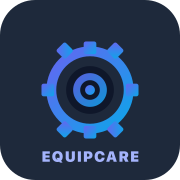
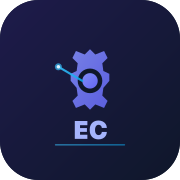
release: system ready for production use
- Fix /acesso page: proper React component with 'use client', valid onClick handlers
- Regenerate all PWA icons (72→512px) with new EC logo design
- Update manifest.json: correct name, start_url=/dashboard, shortcuts for inventory/orders
- Update service worker to v3 with proper cache management
- App ready for install as PWA on iOS, Android and Desktop

diff --git a/app/acesso/page.js b/app/acesso/page.js
@@ -1,130 +1,96 @@
-export const metadata = {
-  title: 'EquipCare Pro — Acesso ao Sistema',
-  description: 'Como acessar e instalar o EquipCare Pro como aplicativo',
-}
+'use client'
 
 export default function AcessoPage() {
-  const url = 'https://equipcare-pro.vercel.app'
+  function copyUrl() {
+    navigator.clipboard.writeText('https://equipcare-pro.vercel.app').then(() => {
+      const btn = document.getElementById('copybtn')
+      if (btn) { btn.textContent = '✅ Copiado!'; btn.style.background = '#10b981' }
+      setTimeout(() => {
+        if (btn) { btn.textContent = '📋 Copiar Link'; btn.style.background = '#6366f1' }
+      }, 2000)
+    })
+  }
 
   return (
     <>
       <style>{`
         *{box-sizing:border-box;margin:0;padding:0}
-        body{
-          font-family:system-ui,-apple-system,sans-serif;
-          background:linear-gradient(135deg,#0f172a 0%,#1e1b4b 50%,#0f172a 100%);
-          min-height:100vh;
-        }
-        .page{
-          min-height:100vh;display:flex;align-items:center;
-          justify-content:center;padding:24px;
-          background:linear-gradient(135deg,#0f172a 0%,#1e1b4b 50%,#0f172a 100%);
-        }
-        .card{
-          background:#1e293b;border:1px solid #334155;
-          border-radius:24px;padding:40px;max-width:500px;
-          width:100%;box-shadow:0 25px 60px rgba(0,0,0,.6);color:#f1f5f9;
-        }
+        body{font-family:system-ui,-apple-system,sans-serif}
+        .pg{min-height:100vh;display:flex;align-items:center;justify-content:center;padding:24px;
+          background:linear-gradient(135deg,#0f172a 0%,#1e1b4b 50%,#0f172a 100%)}
+        .card{background:#1e293b;border:1px solid #334155;border-radius:24px;padding:40px;
+          max-width:500px;width:100%;box-shadow:0 25px 60px rgba(0,0,0,.6);color:#f1f5f9}
         .header{text-align:center;margin-bottom:28px}
         .logo{font-size:56px;margin-bottom:10px}
         h1{font-size:26px;font-weight:800;color:#a5b4fc;margin-bottom:4px}
         .sub{color:#64748b;font-size:13px;line-height:1.5}
-        .badge-online{
-          display:inline-flex;align-items:center;gap:6px;
-          background:rgba(16,185,129,.15);color:#10b981;
-          padding:5px 14px;border-radius:999px;font-size:12px;
-          font-weight:700;margin-top:12px;
-        }
-        .url-box{
-          background:#0f172a;border:1px solid #334155;border-radius:14px;
-          padding:18px 20px;text-align:center;margin-bottom:24px;
-        }
-        .url-label{font-size:11px;font-weight:700;color:#475569;
-          text-transform:uppercase;letter-spacing:1px;margin-bottom:6px}
-        .url-text{font-size:17px;font-weight:800;color:#a5b4fc;
-          word-break:break-all;margin-bottom:14px}
+        .online{display:inline-flex;align-items:center;gap:6px;background:rgba(16,185,129,.15);
+          color:#10b981;padding:5px 14px;border-radius:999px;font-size:12px;font-weight:700;margin-top:12px}
+        .url-box{background:#0f172a;border:1px solid #334155;border-radius:14px;
+          padding:18px 20px;text-align:center;margin-bottom:24px}
+        .url-label{font-size:11px;font-weight:700;color:#475569;text-transform:uppercase;
+          letter-spacing:1px;margin-bottom:6px}
+        .url-text{font-size:17px;font-weight:800;color:#a5b4fc;margin-bottom:14px}
         .btns{display:flex;gap:8px;justify-content:center;flex-wrap:wrap}
-        .btn-copy{
-          background:#6366f1;color:#fff;border:none;border-radius:8px;
-          padding:10px 22px;font-size:13px;font-weight:700;cursor:pointer;
-        }
-        .btn-open{
-          background:transparent;color:#a5b4fc;border:1px solid #4f46e5;
-          border-radius:8px;padding:10px 18px;font-size:13px;font-weight:600;
-          cursor:pointer;text-decoration:none;display:inline-block;
-        }
-        .qr-section{text-align:center;margin-bottom:24px}
+        .btn-copy{background:#6366f1;color:#fff;border:none;border-radius:8px;
+          padding:10px 22px;font-size:13px;font-weight:700;cursor:pointer}
+        .btn-open{background:transparent;color:#a5b4fc;border:1px solid #4f46e5;border-radius:8px;
+          padding:10px 18px;font-size:13px;font-weight:600;cursor:pointer;text-decoration:none;display:inline-block}
+        .qr{text-align:center;margin-bottom:24px}
         .qr-label{font-size:12px;color:#64748b;margin-bottom:10px;font-weight:600}
         .qr-img{border-radius:14px;background:#fff;padding:14px;display:inline-block}
         hr{border:none;border-top:1px solid #334155;margin:20px 0}
-        .section-title{font-size:11px;font-weight:700;color:#475569;
-          text-transform:uppercase;letter-spacing:1px;margin-bottom:14px}
-        .step{
-          display:flex;align-items:flex-start;gap:12px;
-          margin-bottom:10px;background:#0f172a;border-radius:10px;padding:14px;
-        }
-        .step-icon{font-size:22px;flex-shrink:0;margin-top:2px}
-        .step-text{font-size:13px;color:#94a3b8;line-height:1.55}
-        .step-text strong{color:#f1f5f9}
-        .info-box{
-          background:rgba(99,102,241,.08);border:1px solid rgba(99,102,241,.25);
-          border-radius:12px;padding:16px;margin-bottom:16px;
-        }
-        .info-title{font-size:12px;font-weight:700;color:#a5b4fc;margin-bottom:8px}
-        .info-text{font-size:13px;color:#94a3b8;line-height:1.6}
-        .info-text strong{color:#f1f5f9}
-        .info-box-green{
-          background:rgba(16,185,129,.06);border:1px solid rgba(16,185,129,.2);
-          border-radius:12px;padding:16px;margin-bottom:16px;
-        }
-        .info-title-green{font-size:12px;font-weight:700;color:#10b981;margin-bottom:8px}
+        .sec{font-size:11px;font-weight:700;color:#475569;text-transform:uppercase;
+          letter-spacing:1px;margin-bottom:14px}
+        .step{display:flex;align-items:flex-start;gap:12px;margin-bottom:10px;
+          background:#0f172a;border-radius:10px;padding:14px}
+        .step-i{font-size:22px;flex-shrink:0;margin-top:2px}
+        .step-t{font-size:13px;color:#94a3b8;line-height:1.55}
+        .step-t strong{color:#f1f5f9}
+        .info{background:rgba(99,102,241,.08);border:1px solid rgba(99,102,241,.25);
+          border-radius:12px;padding:16px;margin-bottom:14px}
+        .info-t{font-size:12px;font-weight:700;color:#a5b4fc;margin-bottom:8px}
+        .info-g{background:rgba(16,185,129,.06);border-color:rgba(16,185,129,.2)}
+        .info-gt{color:#10b981}
+        .info-x{font-size:13px;color:#94a3b8;line-height:1.6}
+        .info-x strong{color:#f1f5f9}
         .footer{text-align:center;color:#475569;font-size:11px;margin-top:8px}
-        .btn-print{
-          background:none;border:1px solid #334155;border-radius:8px;
-          padding:8px 18px;color:#64748b;cursor:pointer;font-size:12px;margin-top:12px;
-        }
+        .btn-print{background:none;border:1px solid #334155;border-radius:8px;
+          padding:8px 18px;color:#64748b;cursor:pointer;font-size:12px;margin-top:12px}
         @media(max-width:480px){.card{padding:28px 20px}.url-text{font-size:14px}}
         @media print{
-          .page{background:#fff}
-          .card{box-shadow:none;border:2px solid #e2e8f0;background:#fff;color:#1e293b;max-width:100%}
-          h1,.url-text,.section-title,.info-title,.info-title-green{color:#1e293b}
-          .sub,.step-text,.info-text,.footer,.url-label,.qr-label{color:#475569}
-          .step-text strong,.info-text strong{color:#1e293b}
-          .url-box,.step,.info-box,.info-box-green{background:#f8fafc;border-color:#e2e8f0}
-          .badge-online,.btn-copy,.btn-open,.btn-print{display:none}
-          .qr-img{box-shadow:none}
+          .pg{background:#fff}.card{box-shadow:none;border:2px solid #e2e8f0;background:#fff;color:#1e293b;max-width:100%}
+          h1,.url-text,.sec,.info-t{color:#1e293b}.sub,.step-t,.info-x,.footer,.url-label,.qr-label{color:#475569}
+          .step-t strong,.info-x strong{color:#1e293b}.url-box,.step,.info,.info-g{background:#f8fafc;border-color:#e2e8f0}
+          .online,.btn-copy,.btn-open,.btn-print{display:none}.qr-img{box-shadow:none}
         }
       `}</style>
 
-      <div className="page">
+      <div className="pg">
         <div className="card">
           <div className="header">
             <div className="logo">⚙</div>
             <h1>EquipCare Pro</h1>
             <p className="sub">Sistema de Gestão de Máquinas e Equipamentos<br/>Laser&amp;Co</p>
-            <div className="badge-online">● Sistema Online</div>
+            <div className="online">● Sistema Online</div>
           </div>
 
           <div className="url-box">
             <div className="url-label">🔗 Endereço do Sistema</div>
             <div className="url-text">equipcare-pro.vercel.app</div>
             <div className="btns">
-              <button className="btn-copy" onclick="navigator.clipboard.writeText('https://equipcare-pro.vercel.app').then(()=>{this.textContent='✅ Copiado!';this.style.background='#10b981';setTimeout(()=>{this.textContent='📋 Copiar Link';this.style.background='#6366f1'},2000)})">
-                📋 Copiar Link
-              </button>
-              <a className="btn-open" href="https://equipcare-pro.vercel.app" target="_blank">🚀 Abrir Sistema</a>
+              <button id="copybtn" className="btn-copy" onClick={copyUrl}>📋 Copiar Link</button>
+              <a className="btn-open" href="https://equipcare-pro.vercel.app" target="_blank" rel="noreferrer">🚀 Abrir Sistema</a>
             </div>
           </div>
 
-          <div className="qr-section">
+          <div className="qr">
             <div className="qr-label">📱 Escaneie para acessar no celular</div>
             <div className="qr-img">
               {/* eslint-disable-next-line @next/next/no-img-element */}
               <img
-                src="https://api.qrserver.com/v1/create-qr-code/?data=https://equipcare-pro.vercel.app&size=180x180&color=1e293b&bgcolor=ffffff&qzone=1&margin=0&format=png"
-                alt="QR Code EquipCare Pro"
-                width="180"
-                height="180"
+                src="https://api.qrserver.com/v1/create-qr-code/?data=https://equipcare-pro.vercel.app&size=180x180&color=1e293b&bgcolor=ffffff&qzone=1&margin=0"
+                alt="QR Code EquipCare Pro" width="180" height="180"
               />
             </div>
           </div>
@@ -132,27 +98,24 @@ export default function AcessoPage() {
           <hr/>
 
           <div>
-            <div className="section-title">📲 Como instalar como App no celular ou PC</div>
-
+            <div className="sec">📲 Como instalar como App</div>
             <div className="step">
-              <div className="step-icon">🍎</div>
-              <div className="step-text">
+              <div className="step-i">🍎</div>
+              <div className="step-t">
                 <strong>iPhone / iPad</strong><br/>
                 Abra no <strong>Safari</strong> → toque em Compartilhar <strong>↑</strong> → <strong>&quot;Adicionar à Tela de Início&quot;</strong> → Adicionar
               </div>
             </div>
-
             <div className="step">
-              <div className="step-icon">🤖</div>
-              <div className="step-text">
+              <div className="step-i">🤖</div>
+              <div className="step-t">
                 <strong>Android</strong><br/>
                 Abra no <strong>Chrome</strong> → toque em <strong>⋮</strong> → <strong>&quot;Adicionar à tela inicial&quot;</strong> → Adicionar
               </div>
             </div>
-
             <div className="step">
-              <div className="step-icon">💻</div>
-              <div className="step-text">
+              <div className="step-i">💻</div>
+              <div className="step-t">
                 <strong>Computador (Chrome ou Edge)</strong><br/>
                 Abra o sistema → clique no ícone <strong>⊕</strong> na barra de endereço → <strong>Instalar</strong>
               </div>
@@ -161,19 +124,18 @@ export default function AcessoPage() {
 
           <hr/>
 
-          <div className="info-box">
-            <div className="info-title">✉ Primeiro Acesso</div>
-            <div className="info-text">
+          <div className="info">
+            <div className="info-t">✉ Primeiro Acesso</div>
+            <div className="info-x">
               O administrador envia um <strong>convite por e-mail</strong> pelo sistema.<br/>
-              Você receberá um e-mail de <strong>rafael@lasercompany.com</strong>.<br/>
               Clique em <strong>&quot;Ativar Meu Acesso&quot;</strong>, crie sua senha e o sistema estará disponível em todos os dispositivos!
             </div>
           </div>
 
-          <div className="info-box-green">
-            <div className="info-title-green">🔐 Segurança</div>
-            <div className="info-text">
-              Cada usuário tem <strong>login e senha individuais</strong>. Dados em nuvem segura com <strong>auditoria automática</strong> de todas as ações.
+          <div className={`info info-g`}>
+            <div className={`info-t info-gt`}>🔐 Segurança</div>
+            <div className="info-x">
+              Cada usuário tem <strong>login e senha individuais</strong>. Dados em nuvem com <strong>auditoria automática</strong> de todas as ações.
             </div>
           </div>
 

diff --git a/public/sw.js b/public/sw.js
@@ -1,26 +1,31 @@
-const CACHE = 'equipcare-v1'
-const OFFLINE_URL = '/offline.html'
+const CACHE = 'equipcare-v3'
+const OFFLINE = '/offline.html'
 
 self.addEventListener('install', e => {
   e.waitUntil(
-    caches.open(CACHE).then(c => c.addAll([OFFLINE_URL, '/', '/login']))
+    caches.open(CACHE).then(c => c.addAll([
+      OFFLINE,
+      '/manifest.json',
+      '/icons/icon-192.png',
+      '/icons/icon-512.png',
+    ])).then(() => self.skipWaiting())
   )
-  self.skipWaiting()
 })
 
 self.addEventListener('activate', e => {
   e.waitUntil(
     caches.keys().then(keys =>
       Promise.all(keys.filter(k => k !== CACHE).map(k => caches.delete(k)))
-    )
+    ).then(() => self.clients.claim())
   )
-  self.clients.claim()
 })
 
 self.addEventListener('fetch', e => {
-  if (e.request.mode === 'navigate') {
-    e.respondWith(
-      fetch(e.request).catch(() => caches.match(OFFLINE_URL))
+  if (e.request.method !== 'GET') return
+  if (!e.request.url.startsWith('http')) return
+  e.respondWith(
+    fetch(e.request).catch(() =>
+      caches.match(e.request).then(r => r || caches.match(OFFLINE))
     )
-  }
+  )
 })
